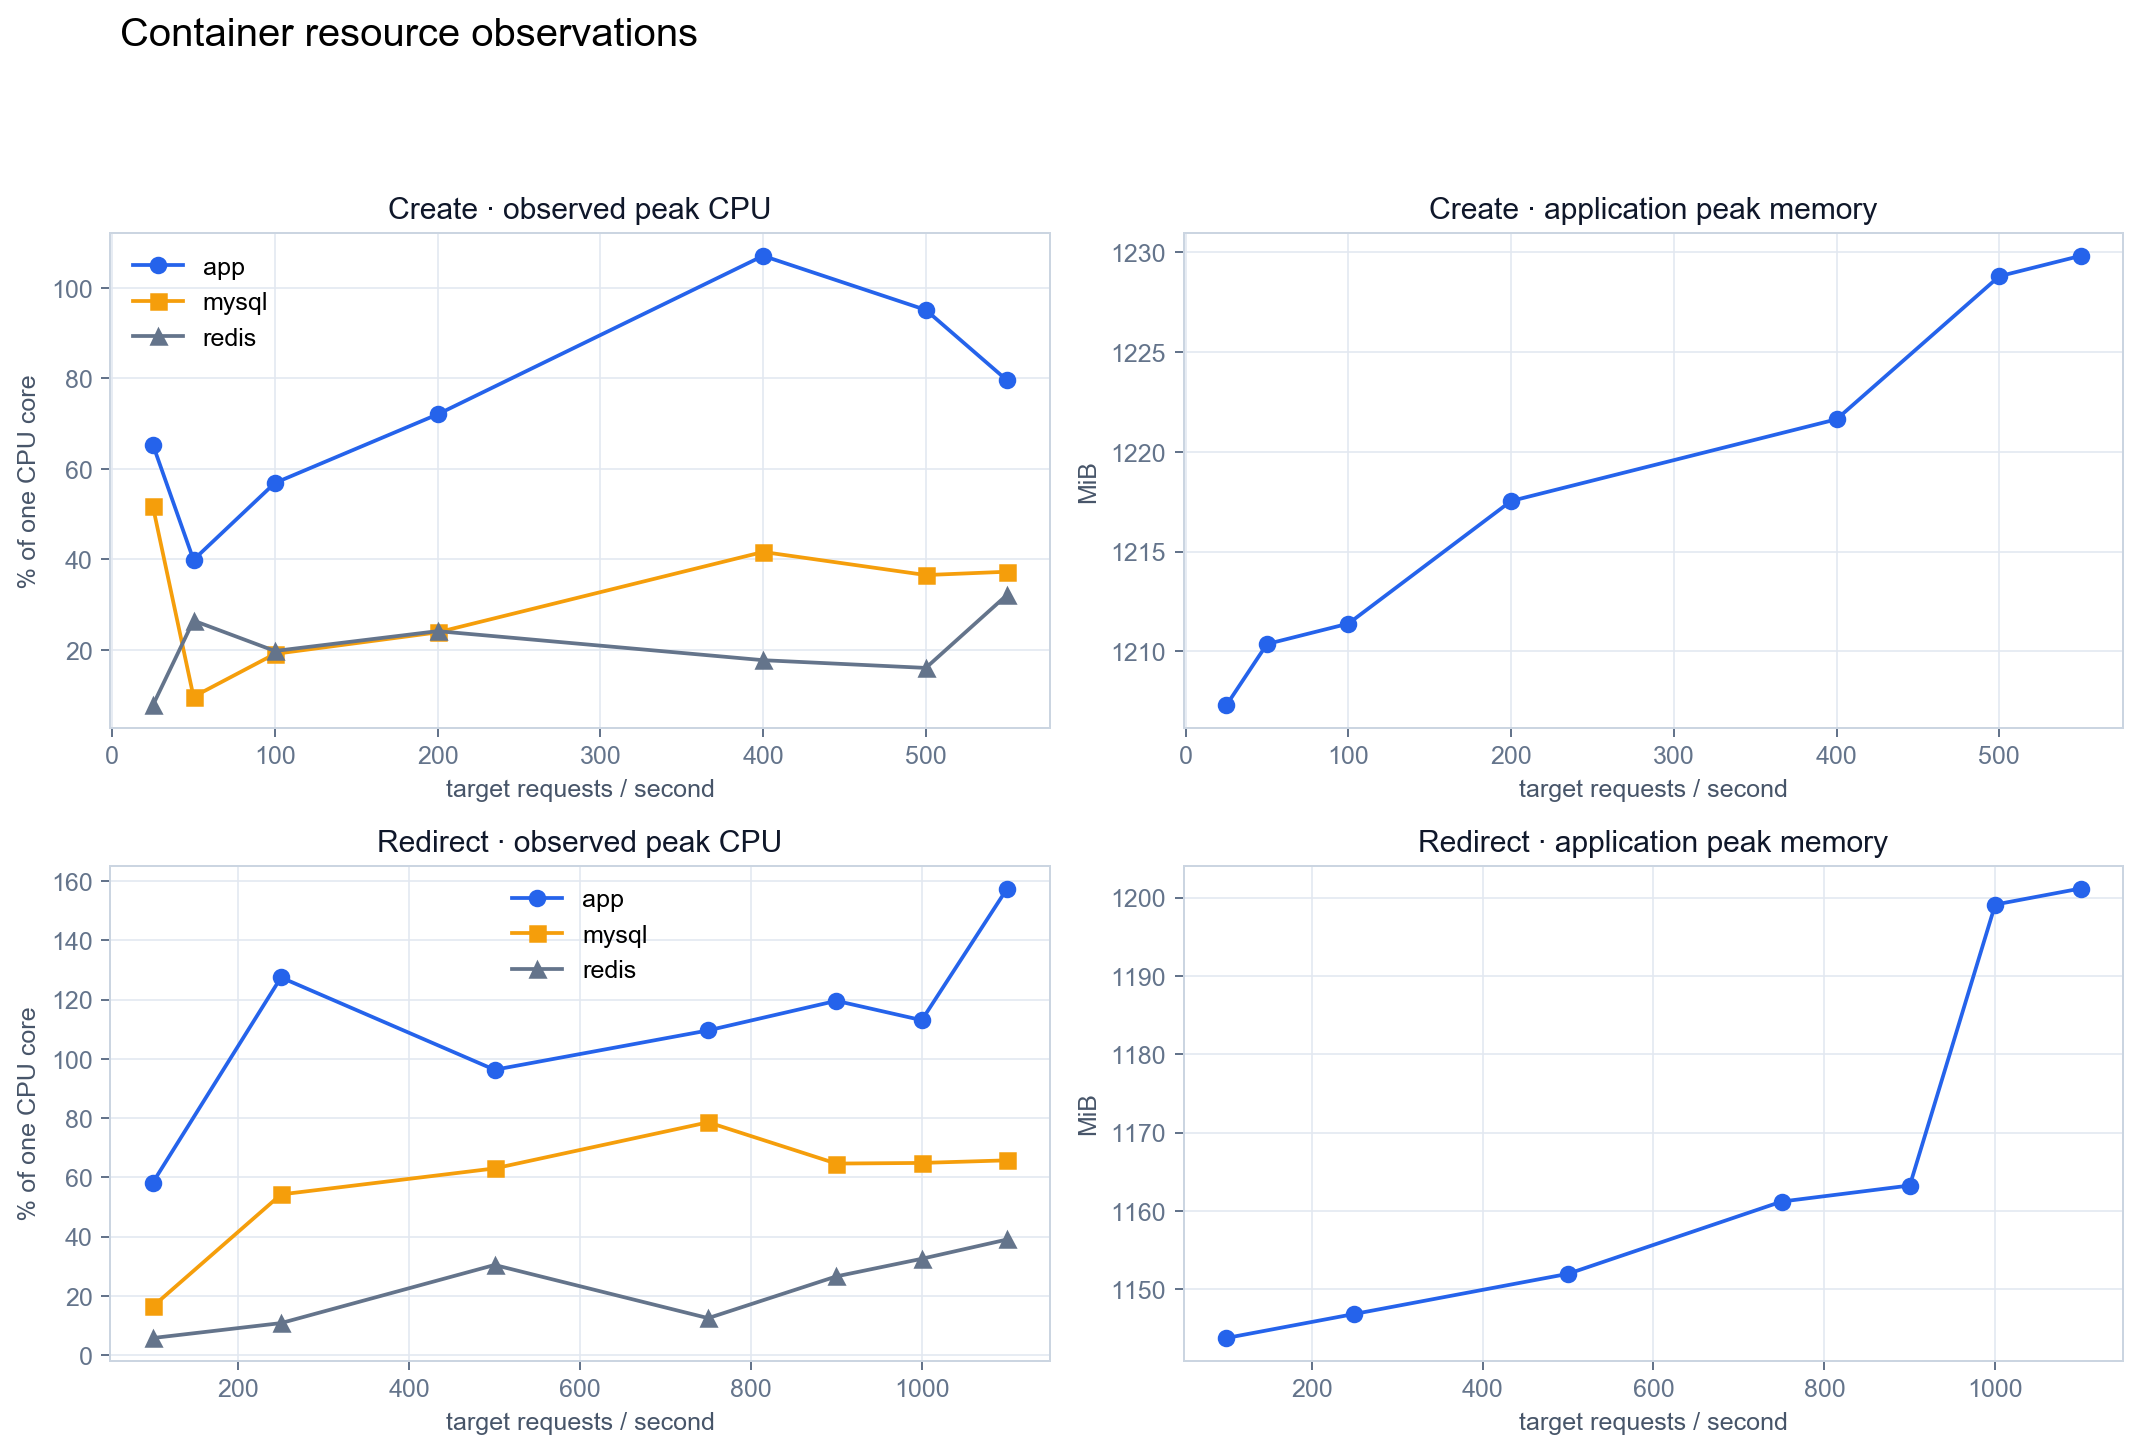
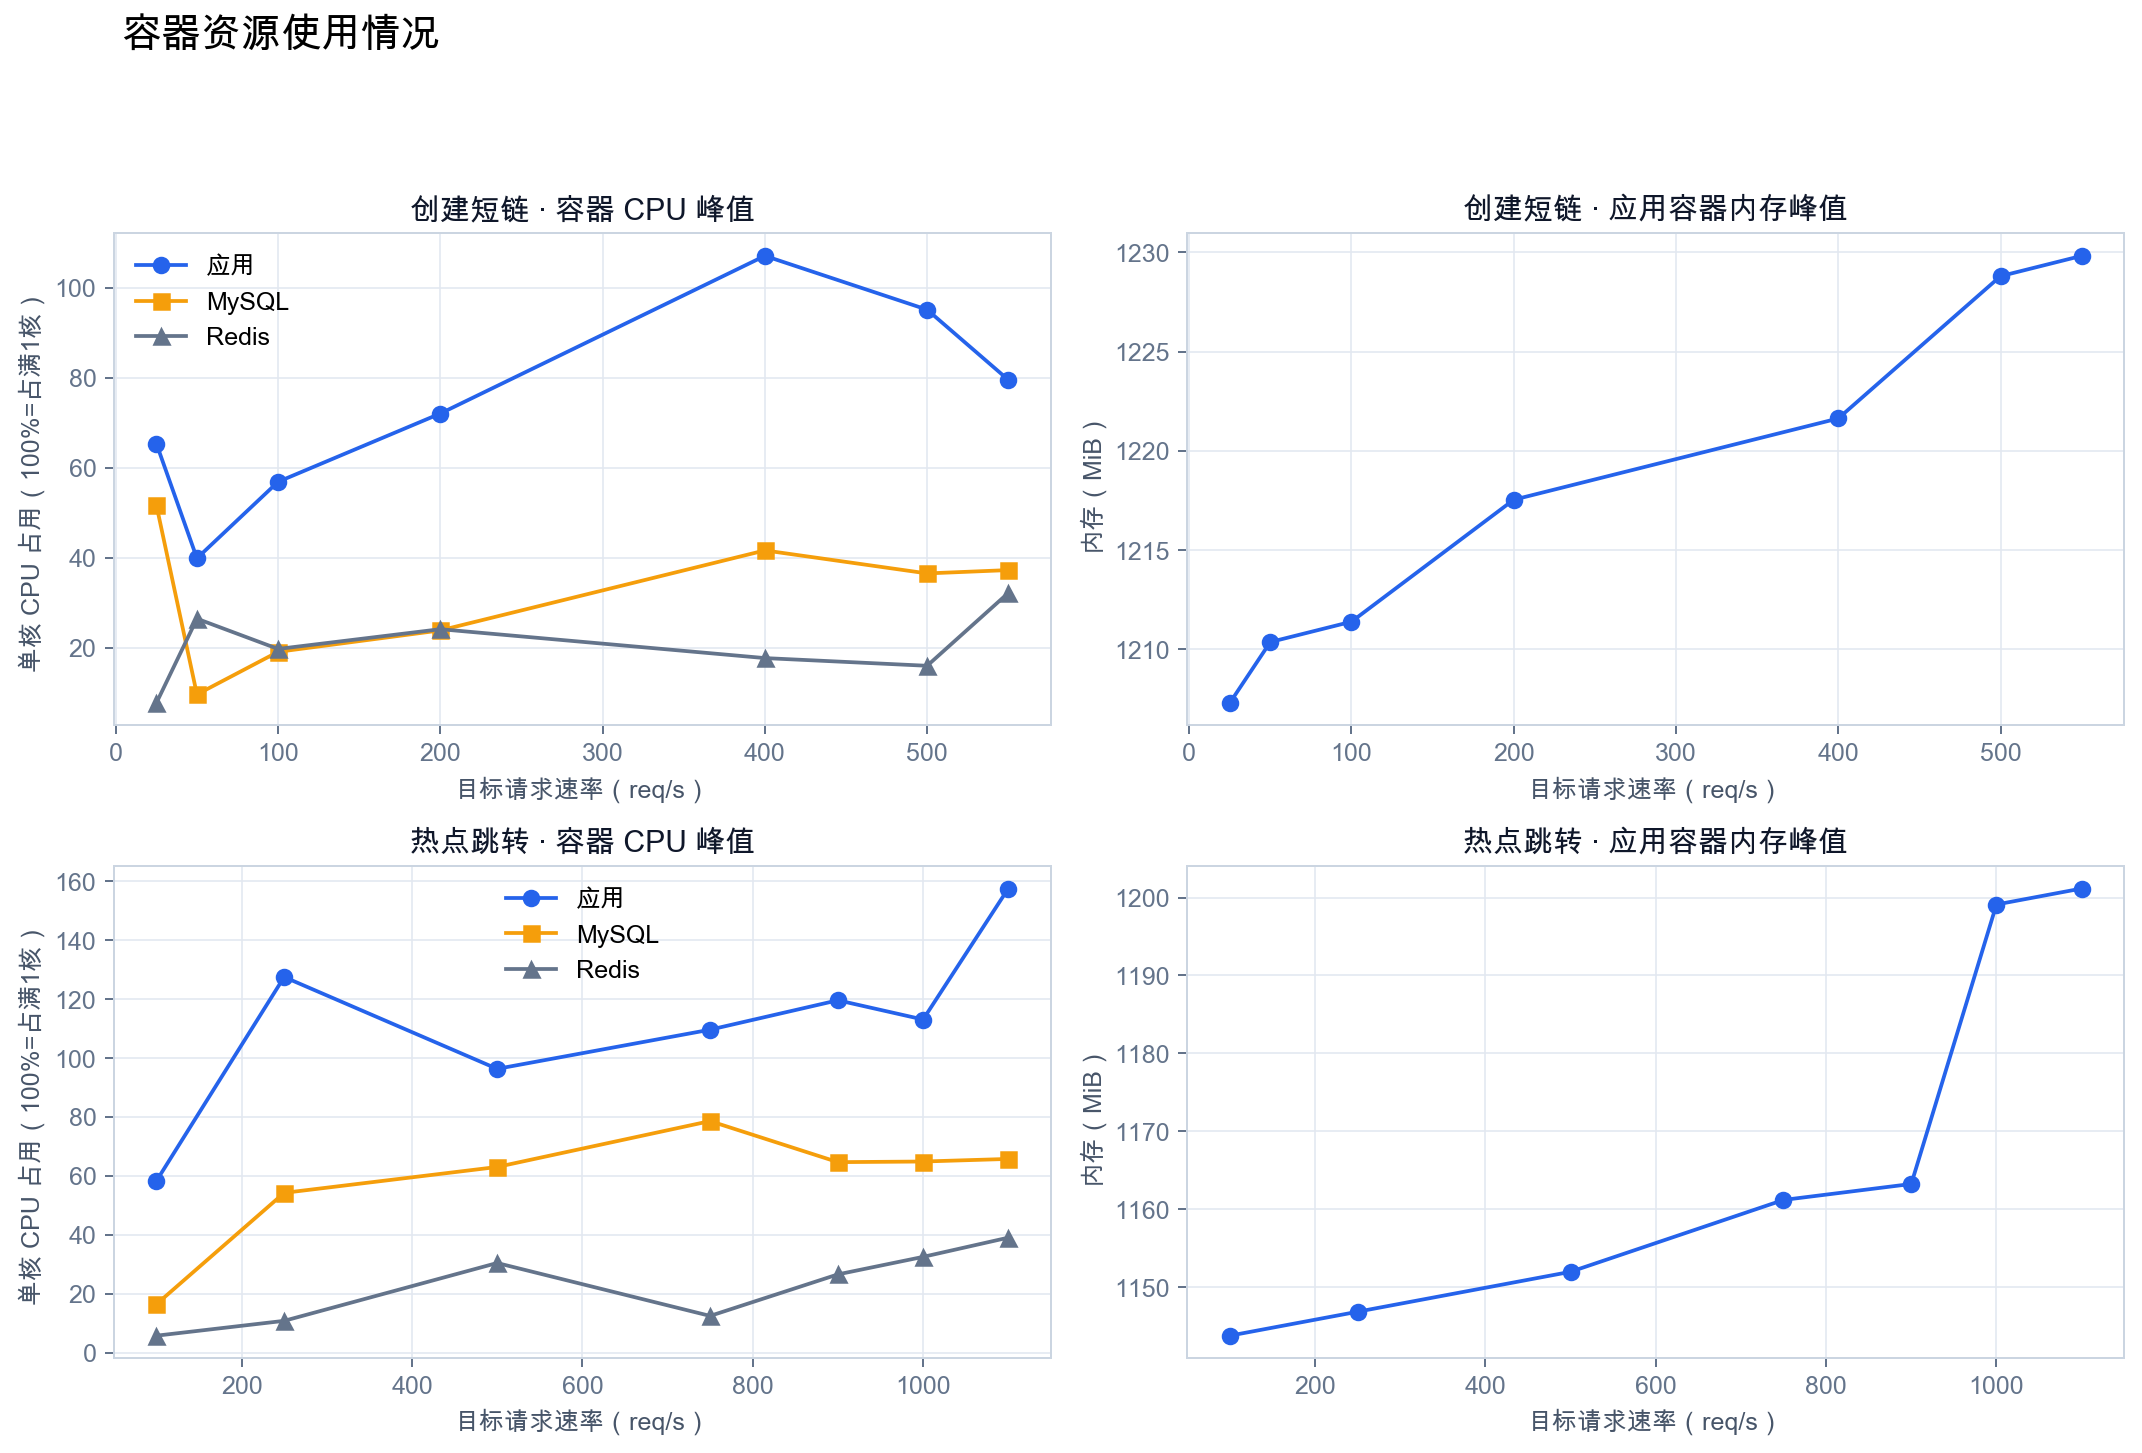
docs(README): 添加性能测试指标说明文档
- 新增指标说明表格，详细解释目标速率、实际吞吐、平均延迟等关键指标含义
- 补充P95/P99延迟、错误率、CPU/内存峰值等性能指标的阅读方法
- 添加并发线程数与请求速率的区别说明，澄清压测配置概念
- 完善性能测试结果解读指南，帮助理解各项指标的实际意义

diff --git a/scripts/generate-rate-benchmark-charts.py b/scripts/generate-rate-benchmark-charts.py
@@ -19,6 +19,7 @@ OUTPUT = RESULT_ROOT / "2026-07-11-native-rate"
 BLUE = "#2563EB"
 ORANGE = "#F59E0B"
 SLATE = "#64748B"
+SCENARIO_LABELS = {"create": "创建短链", "redirect": "热点跳转"}
 
 
 def load_resources(path: Path) -> pd.DataFrame:
@@ -80,27 +81,30 @@ def save_performance_chart(frames: dict[str, pd.DataFrame]) -> None:
     for row, scenario in enumerate(("create", "redirect")):
         frame = frames[scenario]
         limit = 500 if scenario == "create" else 1000
-        axes[row, 0].plot(frame.targetRps, frame.targetRps, color=SLATE, linestyle="--", label="target")
-        axes[row, 0].plot(frame.targetRps, frame.actualRps, color=BLUE, marker="o", linewidth=2, label="actual")
-        axes[row, 0].set_title(f"{scenario.title()} · throughput")
-        axes[row, 0].set_ylabel("requests / second")
+        label = SCENARIO_LABELS[scenario]
+        axes[row, 0].plot(frame.targetRps, frame.targetRps, color=SLATE, linestyle="--", label="目标速率")
+        axes[row, 0].plot(frame.targetRps, frame.actualRps, color=BLUE, marker="o", linewidth=2, label="实际吞吐")
+        axes[row, 0].set_title(f"{label} · 目标速率与实际吞吐")
+        axes[row, 0].set_ylabel("每秒请求数（req/s）")
         axes[row, 0].legend(frameon=False)
 
         axes[row, 1].plot(frame.targetRps, frame.p95Ms, color=BLUE, marker="o", linewidth=2, label="P95")
         axes[row, 1].plot(frame.targetRps, frame.p99Ms, color=ORANGE, marker="s", linewidth=2, label="P99")
-        axes[row, 1].set_title(f"{scenario.title()} · tail latency")
-        axes[row, 1].set_ylabel("milliseconds")
+        axes[row, 1].set_title(f"{label} · 尾延迟")
+        axes[row, 1].set_ylabel("响应时间（毫秒）")
         axes[row, 1].legend(frameon=False)
 
         axes[row, 2].plot(frame.targetRps, frame.errorPct, color=ORANGE, marker="o", linewidth=2)
         axes[row, 2].axvline(limit, color=SLATE, linestyle="--", linewidth=1.5)
-        axes[row, 2].set_title(f"{scenario.title()} · assertion errors")
-        axes[row, 2].set_ylabel("percent")
+        axes[row, 2].annotate("配置的限流上限", xy=(limit, 0), xytext=(limit * 0.62, 3.6),
+                              arrowprops={"arrowstyle": "->", "color": SLATE}, color=SLATE)
+        axes[row, 2].set_title(f"{label} · 请求错误率")
+        axes[row, 2].set_ylabel("错误请求占比（%）")
         for axis in axes[row]:
-            axis.set_xlabel("target requests / second")
+            axis.set_xlabel("目标请求速率（req/s）")
             axis.grid(alpha=0.8)
-    fig.suptitle("ShortLink · controlled request-rate staircase", fontsize=16, fontweight="bold", x=0.04, ha="left")
-    fig.text(0.04, 0.94, "Native ARM JMeter 5.6.3 · 100 workers · 10s ramp-up · per-user cookies", color=SLATE)
+    fig.suptitle("ShortLink 固定请求率阶梯压测", fontsize=16, fontweight="bold", x=0.04, ha="left")
+    fig.text(0.04, 0.94, "ARM 原生 JMeter 5.6.3 · 100 个工作线程 · 10 秒爬升 · 每线程保持独立 Cookie", color=SLATE)
     fig.tight_layout(rect=(0, 0, 1, 0.92))
     fig.savefig(OUTPUT / "rate-staircase.png", dpi=180, bbox_inches="tight")
     plt.close(fig)
@@ -110,19 +114,20 @@ def save_resource_chart(frames: dict[str, pd.DataFrame]) -> None:
     fig, axes = plt.subplots(2, 2, figsize=(12, 8.2))
     for row, scenario in enumerate(("create", "redirect")):
         frame = frames[scenario]
-        axes[row, 0].plot(frame.targetRps, frame.appCpuPeakPct, color=BLUE, marker="o", label="app")
-        axes[row, 0].plot(frame.targetRps, frame.mysqlCpuPeakPct, color=ORANGE, marker="s", label="mysql")
-        axes[row, 0].plot(frame.targetRps, frame.redisCpuPeakPct, color=SLATE, marker="^", label="redis")
-        axes[row, 0].set_title(f"{scenario.title()} · observed peak CPU")
-        axes[row, 0].set_ylabel("% of one CPU core")
+        label = SCENARIO_LABELS[scenario]
+        axes[row, 0].plot(frame.targetRps, frame.appCpuPeakPct, color=BLUE, marker="o", label="应用")
+        axes[row, 0].plot(frame.targetRps, frame.mysqlCpuPeakPct, color=ORANGE, marker="s", label="MySQL")
+        axes[row, 0].plot(frame.targetRps, frame.redisCpuPeakPct, color=SLATE, marker="^", label="Redis")
+        axes[row, 0].set_title(f"{label} · 容器 CPU 峰值")
+        axes[row, 0].set_ylabel("单核 CPU 占用（100%=占满1核）")
         axes[row, 0].legend(frameon=False)
         axes[row, 1].plot(frame.targetRps, frame.appMemoryPeakMiB, color=BLUE, marker="o")
-        axes[row, 1].set_title(f"{scenario.title()} · application peak memory")
-        axes[row, 1].set_ylabel("MiB")
+        axes[row, 1].set_title(f"{label} · 应用容器内存峰值")
+        axes[row, 1].set_ylabel("内存（MiB）")
         for axis in axes[row]:
-            axis.set_xlabel("target requests / second")
+            axis.set_xlabel("目标请求速率（req/s）")
             axis.grid(alpha=0.8)
-    fig.suptitle("Container resource observations", fontsize=16, fontweight="bold", x=0.06, ha="left")
+    fig.suptitle("容器资源使用情况", fontsize=16, fontweight="bold", x=0.06, ha="left")
     fig.tight_layout(rect=(0, 0, 1, 0.92))
     fig.savefig(OUTPUT / "rate-resources.png", dpi=180, bbox_inches="tight")
     plt.close(fig)

diff --git a/README.md b/README.md
@@ -150,6 +150,21 @@ THREADS=100 TARGET_RPS=400 DURATION_SECONDS=40 ./scripts/run-benchmark.sh create
 | 场景 | 接口、并发线程、爬升时间、稳定运行时间、数据预热方式 |
 | 结果 | 吞吐量、平均延迟、P90/P95/P99、错误率、CPU/内存峰值 |
 
+### 指标说明
+
+| 指标 | 含义 | 阅读方法 |
+| --- | --- | --- |
+| 目标速率 | JMeter 计划每秒向服务发送的请求数 | 用于控制每档压力，例如目标 `500 req/s`，不是并发线程数。 |
+| 实际吞吐 | 服务端实际完成的请求数，单位为 `req/s` | 越接近目标速率越好；明显低于目标通常说明服务或压测端已经排队。 |
+| 平均延迟 | 全部请求响应时间的平均值 | 容易被少数极慢请求影响，只能作为整体参考。 |
+| P95 | 95% 的请求响应时间不超过该值 | 比平均值更能反映大多数用户的真实体验。 |
+| P99 | 99% 的请求响应时间不超过该值 | 用于观察最慢的 1% 请求和系统尾部抖动。 |
+| 错误率 | HTTP 状态码或响应断言失败的请求占比 | 本测试超过限流上限后的错误主要是预期的 HTTP 429。 |
+| CPU 峰值 | 采样期间容器使用 CPU 的最高值 | `100%` 表示占满一个 CPU 核，超过 `100%` 表示同时使用了多个核。 |
+| 内存峰值 | 应用容器采样到的最高内存占用 | 用来检查随压力上升是否出现持续膨胀；本图单位为 MiB。 |
+
+并发线程数表示“同时可以发请求的虚拟用户数”，请求速率表示“每秒实际发送多少请求”。线程会在收到响应后继续发送下一次请求，因此 10 个无限循环线程也可能产生每秒数千次请求；本项目使用固定目标速率避免把线程数误当成系统吞吐量。
+
 ### 已发布结果
 
 测试时间：2026-07-11。测试对象为当前工作区构建的单应用实例，基线提交为 `1dde4f1`，包含统计查询模块重构；压测工具与 README 更新尚未提交，因此工作区为 `dirty`。使用 ARM 原生 JMeter、100 个工作线程和固定请求率阶梯加压；每个线程保留自己的 UV Cookie。应用/MySQL/Redis 运行在 Docker，压测端运行在 macOS 宿主机。
